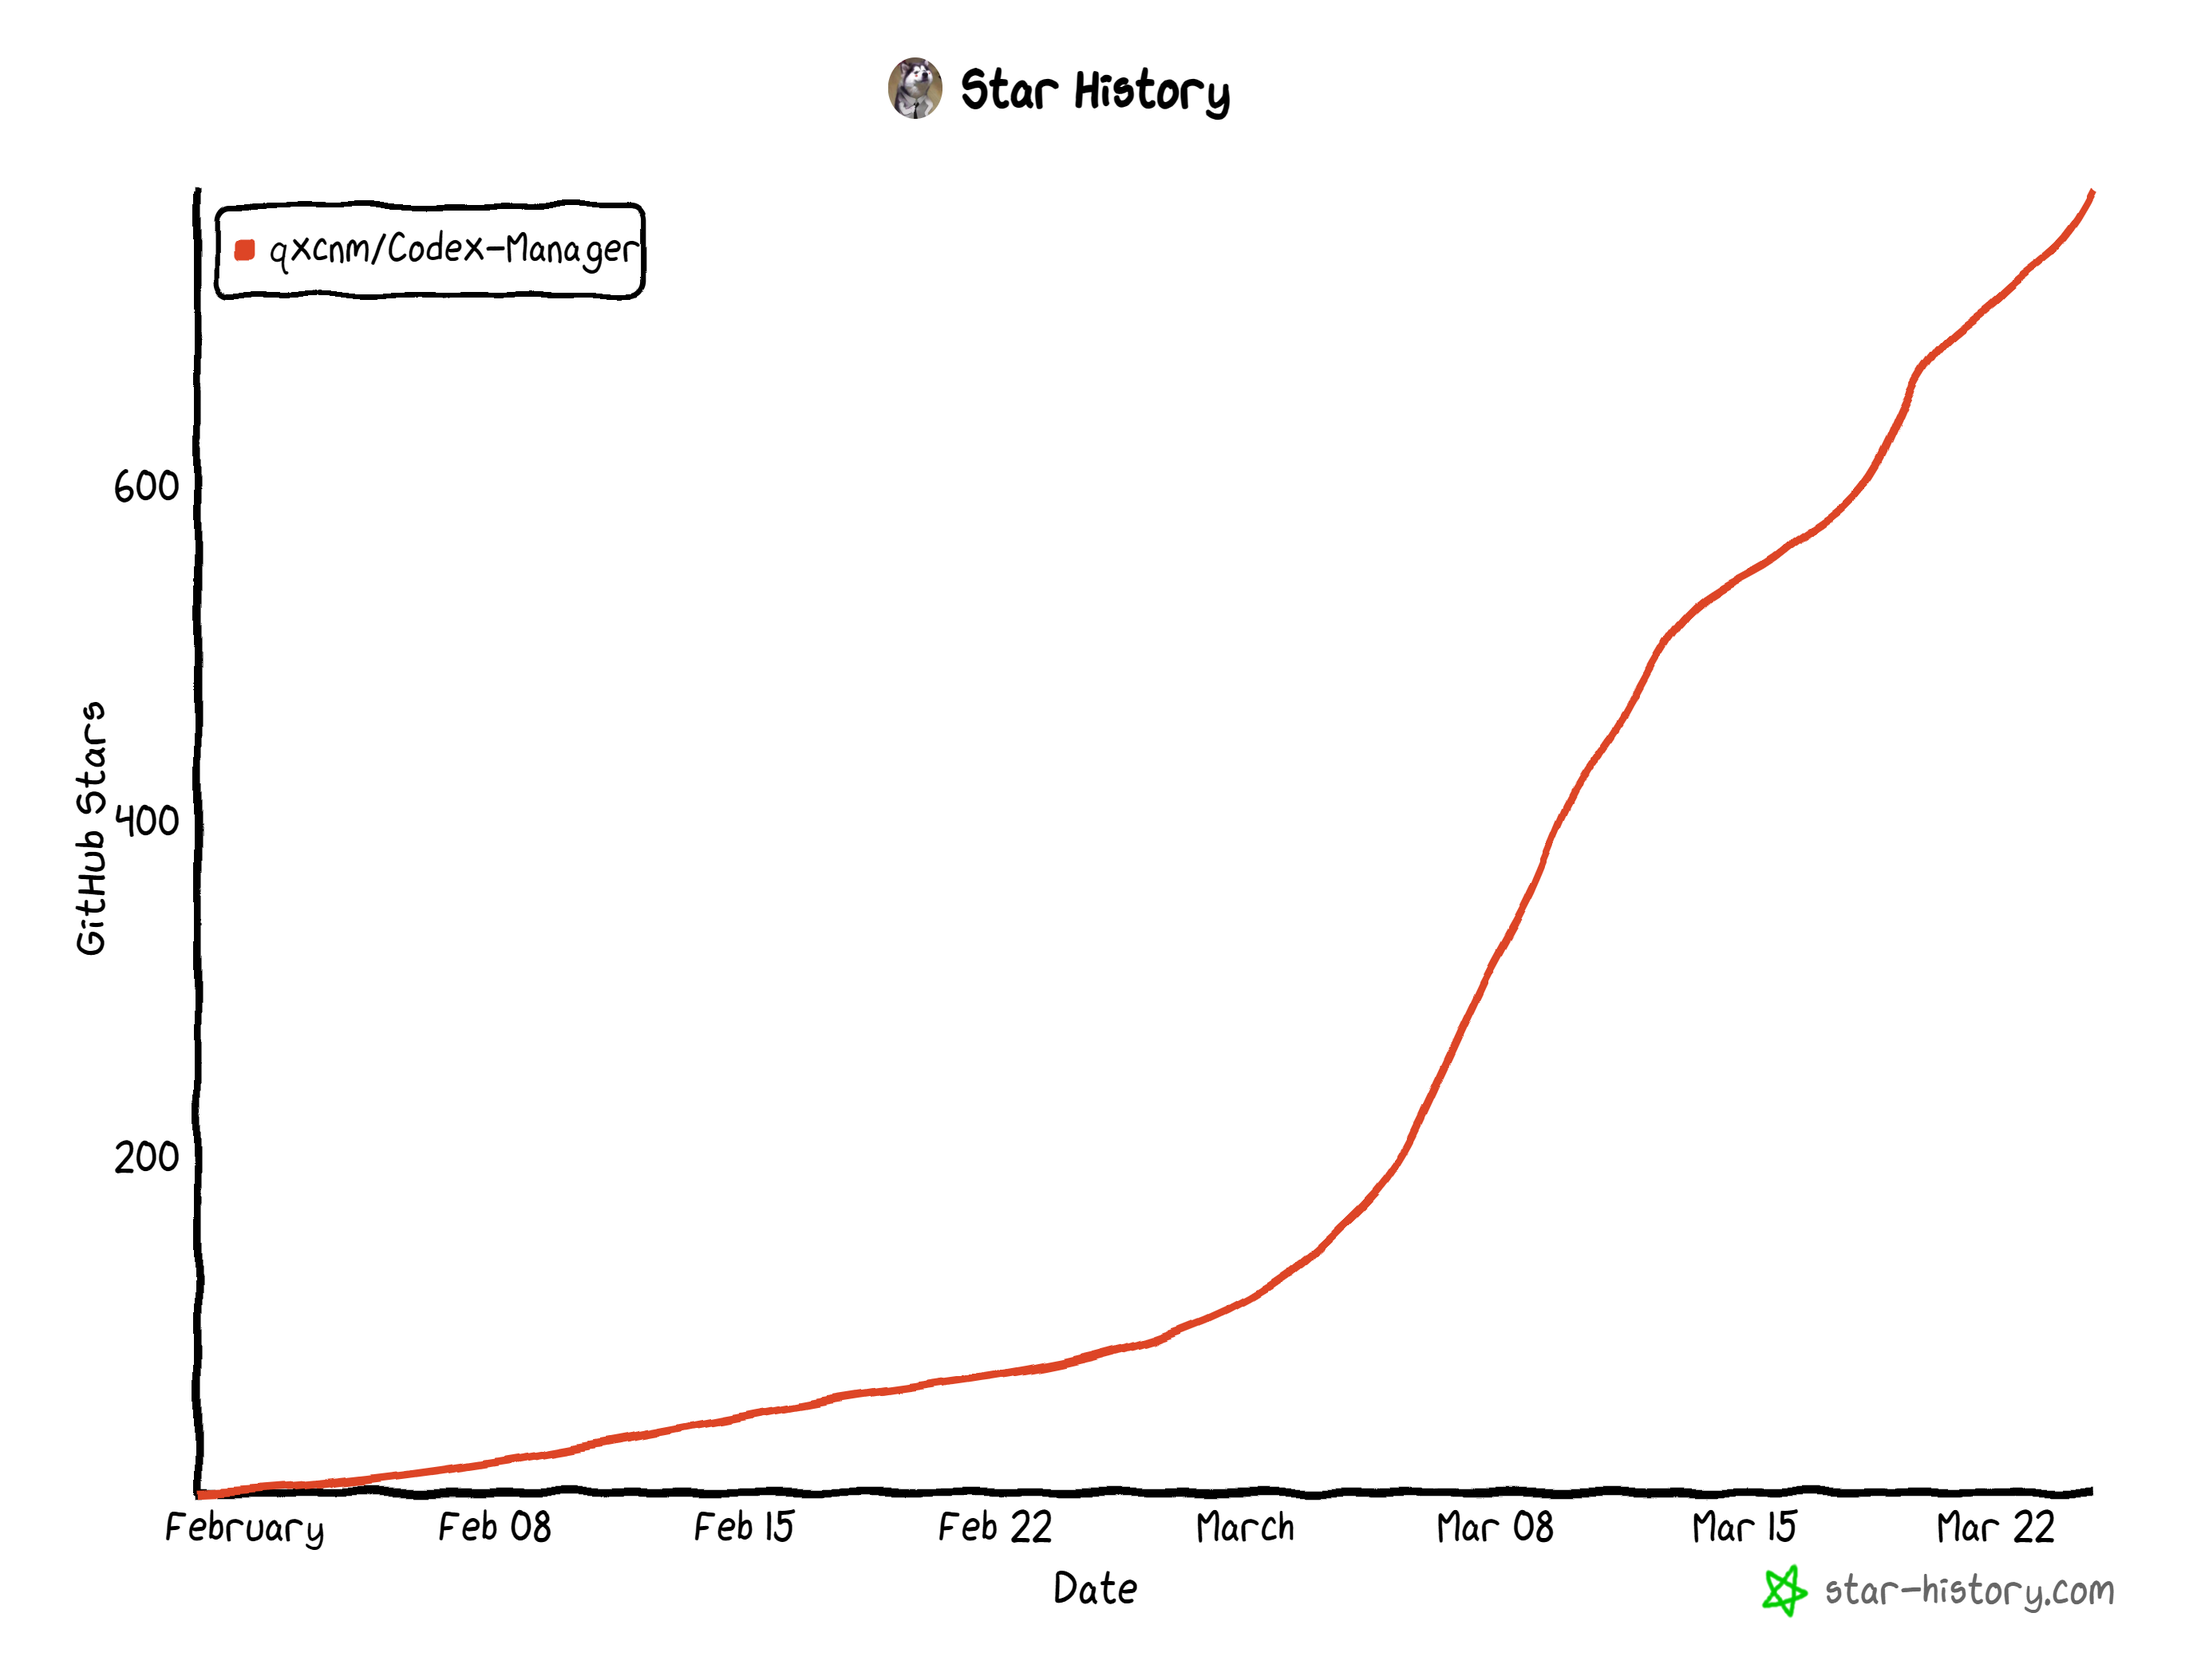
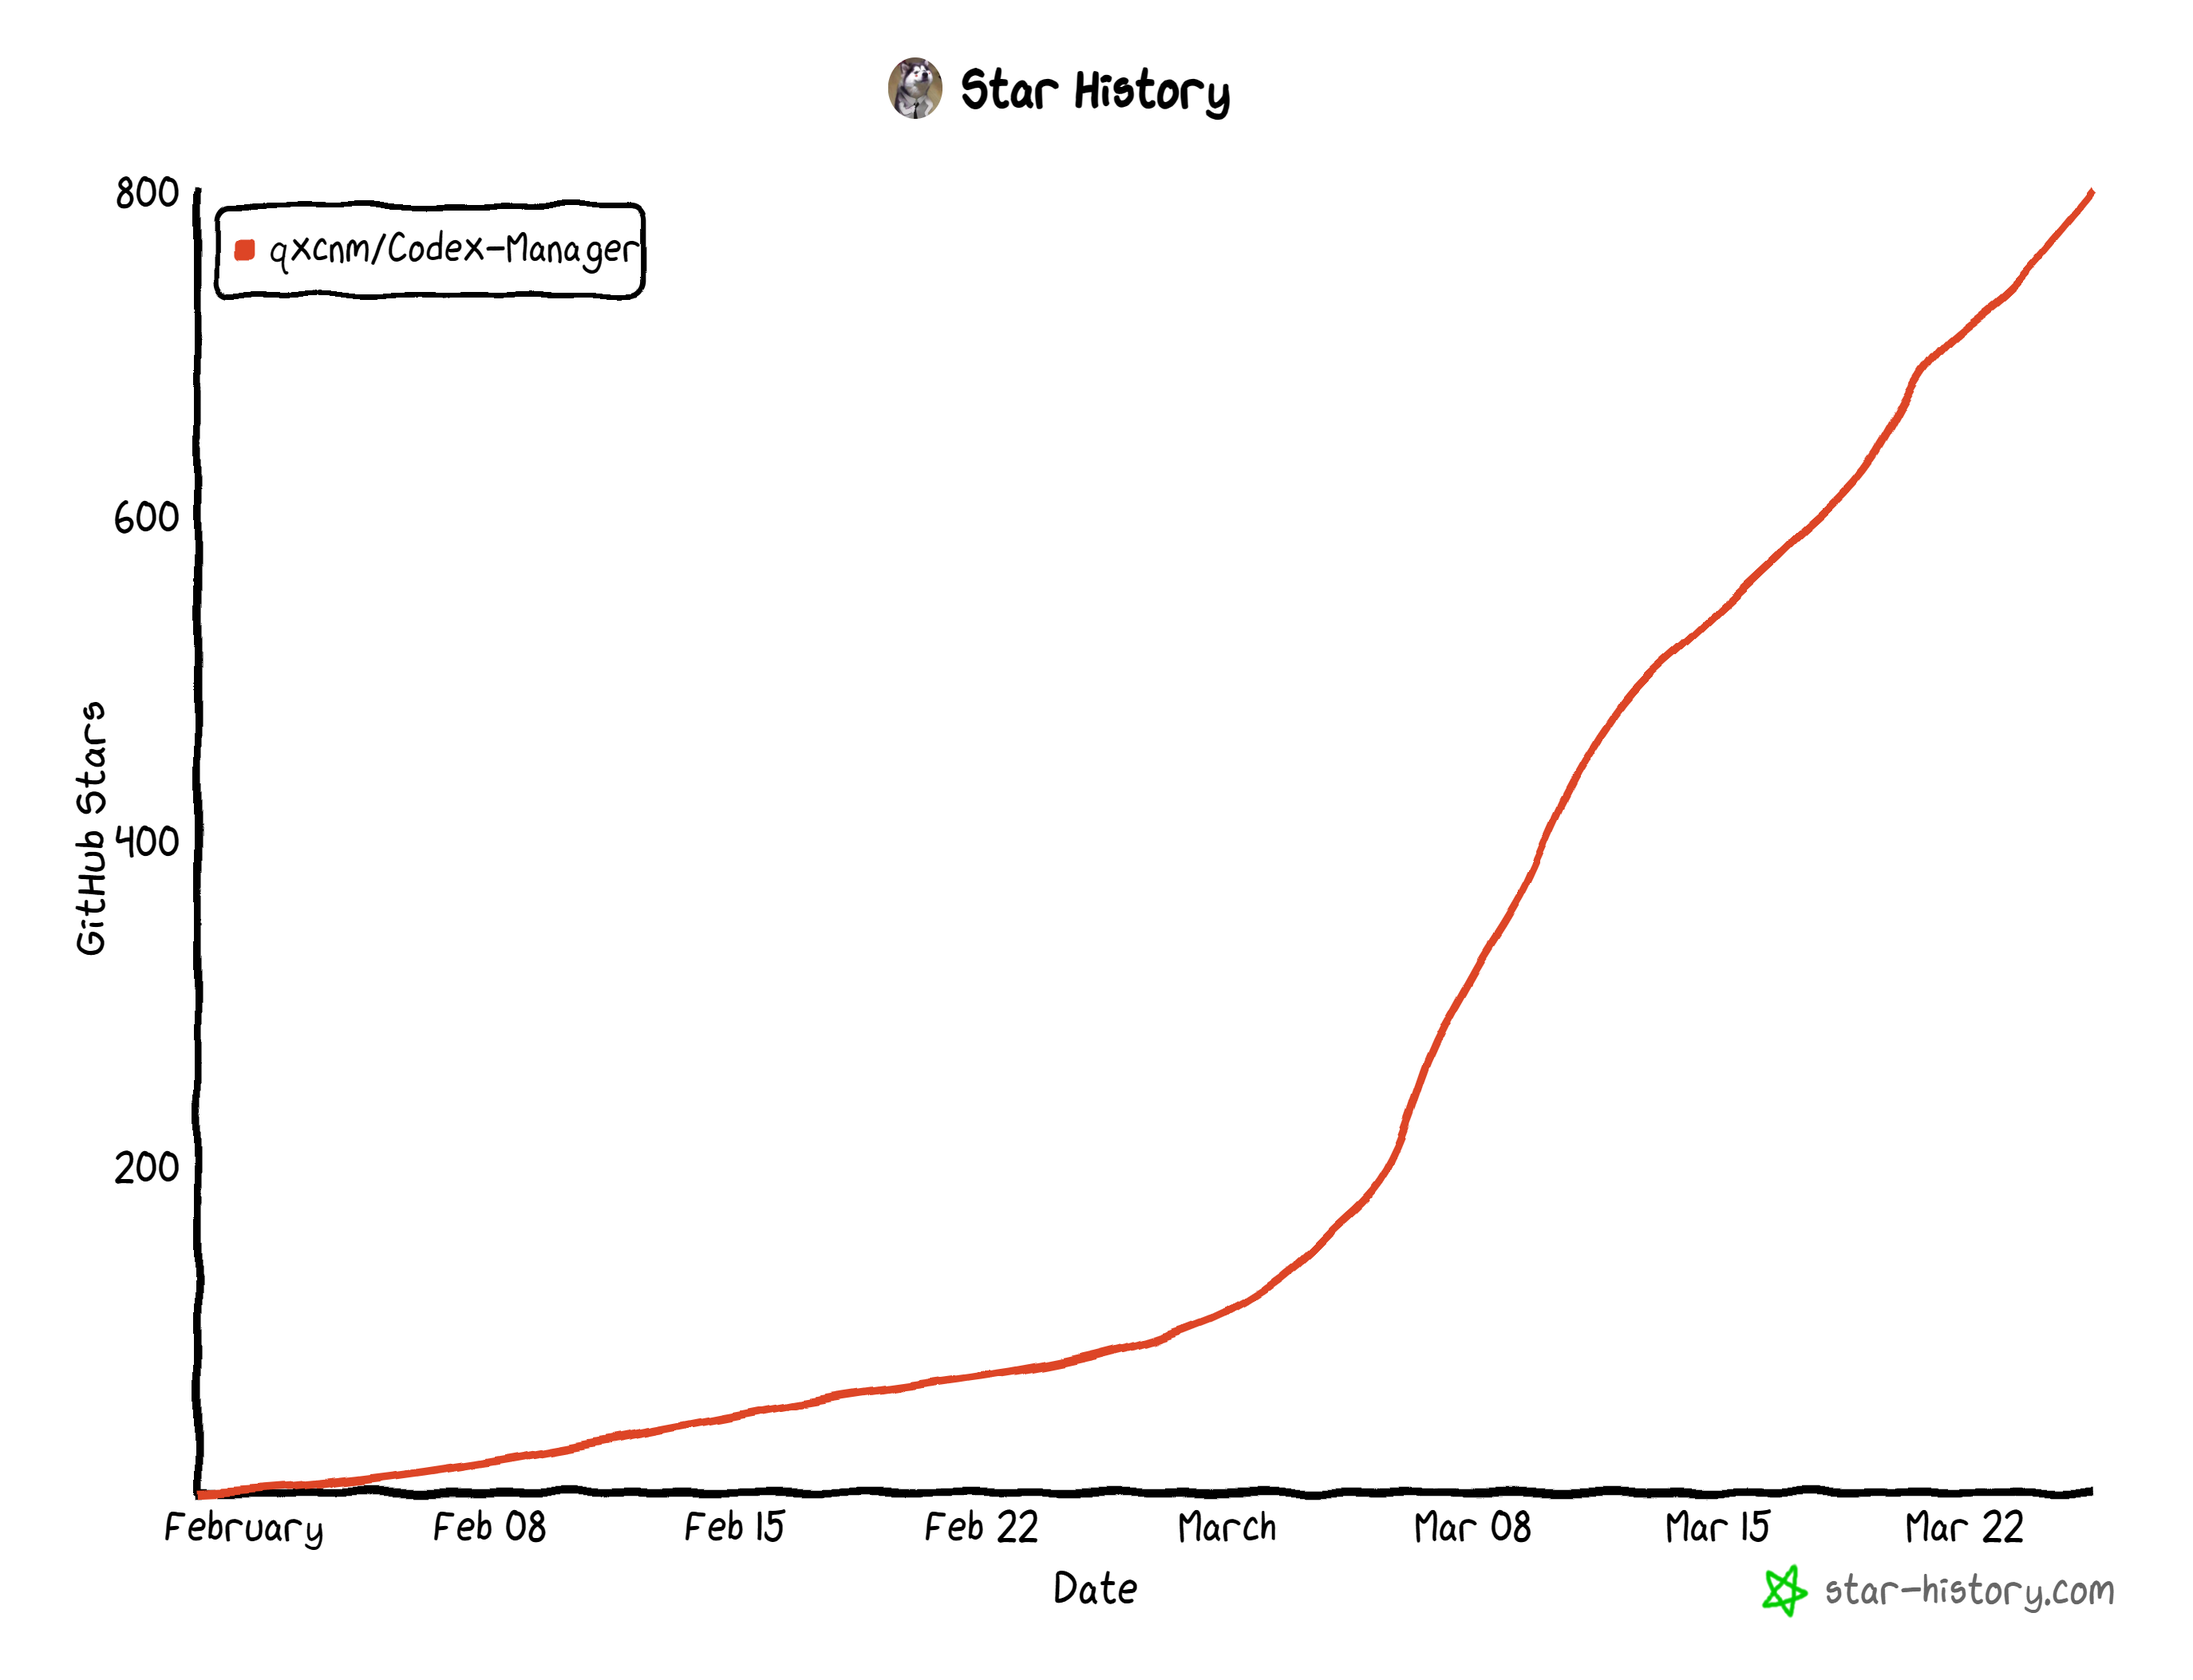
docs: 补充聚合API截图

diff --git a/README.en.md b/README.en.md
@@ -45,8 +45,8 @@ A local desktop + service toolkit for managing Codex-compatible accounts, usage,
 
 ## Recent Changes
 - Current latest version: `v0.1.12` (2026-03-20)
-- Added an “Aggregate API” management page: create minimal upstream relays for `Codex / Claude`, with connection testing, supplier name, URL, key, and created-at display.
-- Platform-key rotation now supports `Account Rotation` and `Aggregate API Rotation`; Aggregate API rotation forwards requests upstream by protocol while keeping account rotation unchanged.
+- Added an “Aggregate API” management page: manage multiple third-party relay providers as minimal upstreams, with `Codex / Claude` categorization, supplier name, sort order, URL, key, and connection testing.
+- Platform-key rotation now supports `Account Rotation` and `Aggregate API Rotation`; Aggregate API rotation prefers the configured provider order first, then forwards upstream requests by protocol while keeping account rotation unchanged.
 - `v0.1.12` continues the desktop and docs cleanup from this round: platform-key name updates now round-trip correctly on both Web and desktop, key IDs are fully visible by default, and the README adds a sponsor jump entry.
 - Account management adds the most practical governance features from this round: `account_deactivated` and `workspace_deactivated` are now recognized as unavailable signals, the list supports a dedicated `Banned` filter, and the actions menu can clean banned accounts in one click.
 - The 5-hour and 7-day quota columns now show reset timestamps under each progress bar. Free accounts that only expose a 7-day window also render the reset time under the 7-day column instead of the wrong bucket.
@@ -69,7 +69,7 @@ A local desktop + service toolkit for managing Codex-compatible accounts, usage,
 - Usage dashboard: 5-hour + 7-day windows, plus accounts that only expose a 7-day window, with per-window reset timestamps
 - OAuth login: browser flow + manual callback parsing
 - Platform keys: create, disable, delete, model binding, reasoning effort, and service tier overrides (`Follow Request` / `Fast` / `Flex`)
-- Aggregate API: create, edit, connection testing, supplier name, and Codex / Claude categorization
+- Aggregate API: manage third-party minimal upstream relays with create/edit, connection testing, supplier name, sort priority, and `Codex / Claude` categorization
 - Local service with configurable port and listen address
 - Local OpenAI-compatible gateway for CLI and third-party tools
 
@@ -77,6 +77,7 @@ A local desktop + service toolkit for managing Codex-compatible accounts, usage,
 ![Dashboard](assets/images/dashboard.png)
 ![Accounts](assets/images/accounts.png)
 ![Platform Key](assets/images/platform-key.png)
+![Aggregate API](assets/images/aggregate-api.png)
 ![Logs](assets/images/log.png)
 ![Settings](assets/images/themes.png)
 

diff --git a/README.md b/README.md
@@ -46,8 +46,8 @@
 
 ## 最近变更
 - 当前最新版本：`v0.1.12`（2026-03-20）
-- 新增“聚合 API”管理页：支持按 `Codex / Claude` 创建最小转发上游，支持测试连通性、供应商名称、URL、密钥和创建时间展示。
-- 平台密钥轮转现在支持 `账号轮转 / 聚合 API 轮转` 两种策略；聚合 API 轮转会按协议直接透传上游请求，账号轮转逻辑保持不变。
+- 新增“聚合 API”管理页：可将多个第三方中转服务作为最小转发上游统一管理，支持按 `Codex / Claude` 分类、配置供应商名称 / 顺序 / URL / 密钥，并提供连通性测试。
+- 平台密钥轮转现在支持 `账号轮转 / 聚合 API 轮转` 两种策略；聚合 API 轮转会优先按顺序命中对应供应商，再按协议直接透传上游请求，账号轮转逻辑保持不变。
 - `v0.1.12` 继续补齐这一轮桌面与文档收口：平台密钥名称更新链路现已在 Web / 桌面端统一打通，密钥 ID 默认完整显示，README 也补上了赞助支持入口与跳转。
 - 账号管理补齐了这一轮最常用的治理能力：`account_deactivated` 与 `workspace_deactivated` 会被自动识别为不可用信号，页面支持直接筛选“封禁”，并提供“一键清理封禁账号”入口。
 - 账号页的 5 小时 / 7 天额度现在都会在进度条下方显示重置时间；仅提供 7 天窗口的 free 账号也会把重置时间正确显示到 7 天列，避免看错窗口。
@@ -70,7 +70,7 @@
 - 用量展示：兼容 5 小时 + 7 日双窗口，以及仅返回 7 日单窗口的账号，并展示对应窗口的重置时间
 - 授权登录：浏览器授权 + 手动回调解析
 - 平台 Key：生成、禁用、删除、模型绑定、推理等级、服务等级（跟随请求 / Fast / Flex）
-- 聚合 API：创建、编辑、测试连通性、供应商名称、按 Codex / Claude 分类展示
+- 聚合 API：管理第三方最小转发上游，支持创建、编辑、测试连通性、供应商名称、顺序优先级，以及按 Codex / Claude 分类展示
 - 本地服务：自动拉起、可自定义端口与监听地址
 - 本地网关：为 CLI 和第三方工具提供统一 OpenAI 兼容入口
 
@@ -78,6 +78,7 @@
 ![仪表盘](assets/images/dashboard.png)
 ![账号管理](assets/images/accounts.png)
 ![平台 Key](assets/images/platform-key.png)
+![聚合 API](assets/images/aggregate-api.png)
 ![日志视图](assets/images/log.png)
 ![设置页](assets/images/themes.png)
 
